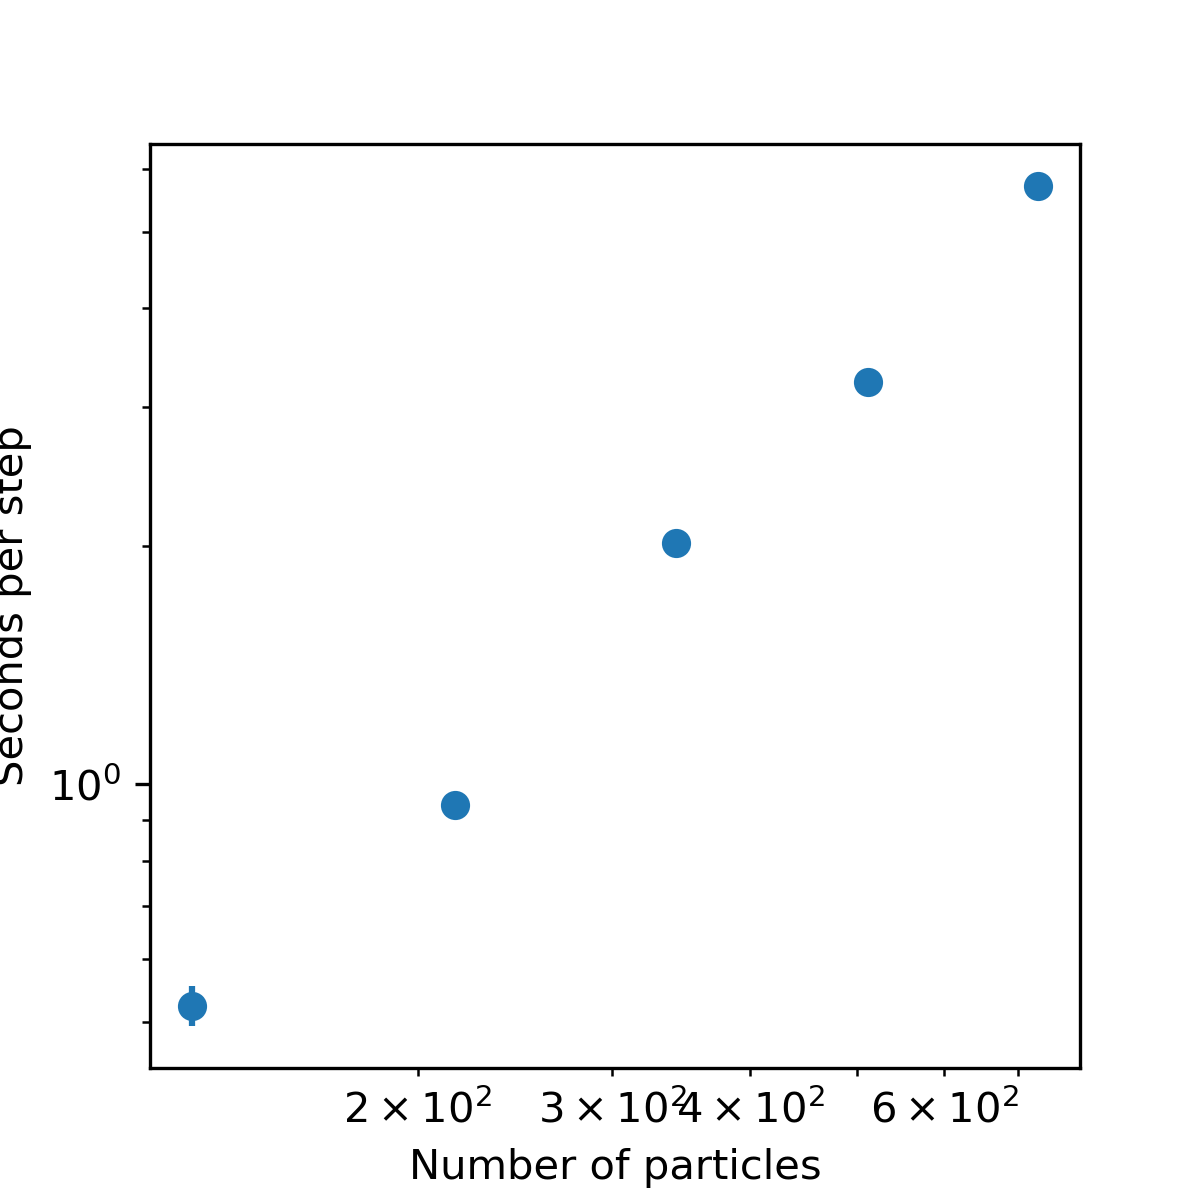
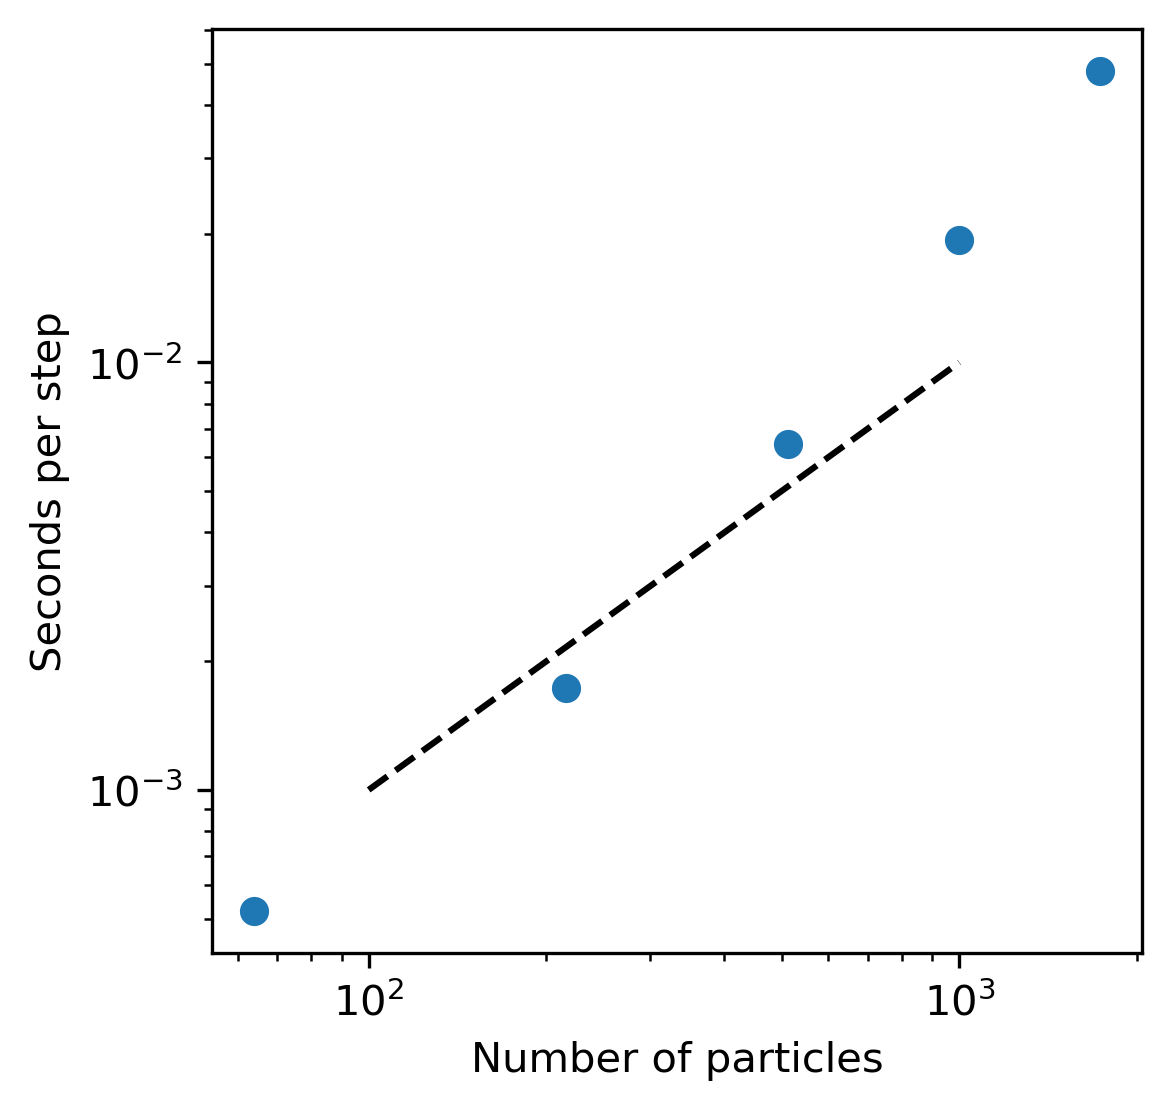
Updated benchmark with different systems sizes

diff --git a/benchmarks/system_sizes.py b/benchmarks/system_sizes.py
@@ -23,41 +23,43 @@ def benchmark(nx=5, verbose=False, plot=False):
     steps_eq = 10
     sim.run(steps_eq)
 
-    max_run_time = 5.0  # seconds
-    steps_per_round = 500
+    max_run_time = 1.0  # seconds
+    steps_per_round = 200
 
     times = []
     start = perf_counter()
-    while perf_counter() - start < max_run_time:
+    while perf_counter() - start < max_run_time or len(times) < 2:
         tic = perf_counter()
         sim.run(steps_per_round)
         toc = perf_counter()
         times.append(toc - tic)
 
     number_of_particles = sim.get_number_of_particles()
-    seconds_per_step = sum(times) / len(times)
+    seconds_per_step = sum(times) / len(times) / steps_per_round
     err_seconds_per_step = np.std(times) / np.sqrt(len(times))
 
     if verbose:
-        print(f'{number_of_particles=}, {len(times)=}, {seconds_per_step=:.3f} +/- {err_seconds_per_step=:.3f} seconds/step')
+        print(f'Time to run benchmark: {toc - start:.2f} seconds')
+        print(f'{number_of_particles=}, {len(times)=}, {seconds_per_step=:.6f} +/- {err_seconds_per_step=:.6f} seconds/step')
 
     return number_of_particles, seconds_per_step, err_seconds_per_step
 
 sizes, times, times_err = [], [], []
 
-for nx in 5, 6, 7, 8, 9, 10:
+for nx in 4, 6, 8, 10:
     number_of_particles, seconds_per_step, err_seconds_per_step = benchmark(nx, verbose=True)
     sizes.append(number_of_particles)
     times.append(seconds_per_step)
     times_err.append(err_seconds_per_step)
 
 plt.figure(figsize=(4, 4))
-plt.errorbar(sizes, times, yerr=times_err, fmt='o')
+plt.plot(sizes, times, 'o')
+plt.plot([1e2, 1e3], [1e-3, 1e-2], 'k--')
 plt.xlabel('Number of particles')
 plt.ylabel('Seconds per step')
 plt.xscale('log')
 plt.yscale('log')
-plt.savefig('system_sizes.png', dpi=300)
+plt.savefig('system_sizes.png', bbox_inches='tight', dpi=300)
 plt.show()
 
 # Save data to cvs file

diff --git a/benchmarks/benchmark.py b/benchmarks/benchmark.py
@@ -5,7 +5,7 @@ from dompap import Simulation, autotune
 tic = perf_counter()
 
 sim = Simulation()
-sim.set_positions(unit_cell_coordinates=([0.0, 0.0, 0.0],), cells=(5, 5, 5), lattice_constants=(1.0, 1.0, 1.0))
+sim.set_positions(unit_cell_coordinates=([0.0, 0.0, 0.0],), cells=(10, 10, 10), lattice_constants=(1.0, 1.0, 1.0))
 sim.set_masses(masses=1.0)
 sim.set_random_velocities(temperature=1.0)
 sim.set_pair_potential(pair_potential_str='(1-r)**2', r_cut=1.0)
